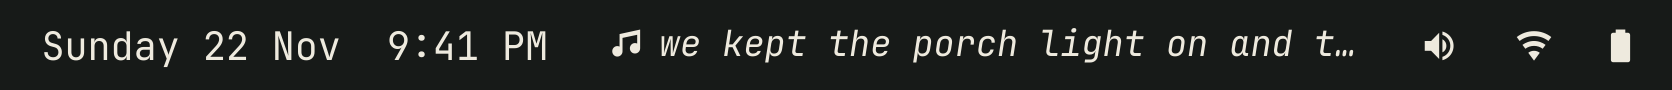
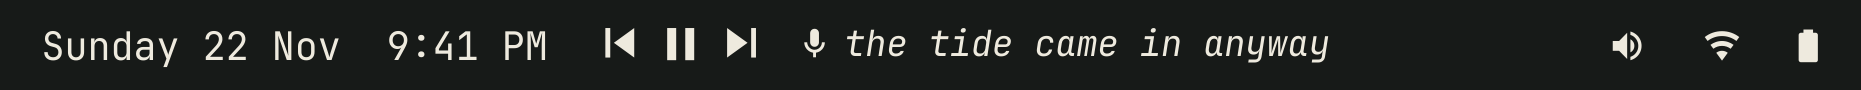
Harness: paging captures, three-line popup capture
New modes bar-lyric-page1 and bar-lyric-page2 render a long mock line on
its first and second page; bar-lyric uses a short line, panel shows the
three lyric lines. All lyrics are made up.

Claude-Session: https://claude.ai/code/session_01WDfsiKyRhJNr2NX5P2Fza4

Changed region(s): [[0.0, 0.3111, 0.8086, 0.6889], [0.8397, 0.3333, 0.933, 0.6667], [0.9641, 0.3333, 0.9952, 0.6889]]

diff --git a/dev/Harness.qml b/dev/Harness.qml
@@ -11,11 +11,13 @@ import "canto" as W
 // dev/mock/state.json); Canto does not need to be running.
 //
 // MODE (env):
-//   preview     floating window with the pill and the popup, to play with
-//   bar         the pill showing Title · Artist          -> $OUT (png)
-//   bar-lyric   the pill showing the synced lyric line   -> $OUT (png)
-//   panel       the popup with cover, lyric and controls -> $OUT (png)
-//   panel-hint  the popup with Visual Bridge off         -> $OUT (png)
+//   preview          floating window with the pills and the popup, to play with
+//   bar              controls + Title · Artist (title mode)        -> $OUT (png)
+//   bar-lyric        lyric mode, a line that fits                  -> $OUT (png)
+//   bar-lyric-page1  lyric mode, a long line: its first page       -> $OUT (png)
+//   bar-lyric-page2  lyric mode, the same line: its second page    -> $OUT (png)
+//   panel            the popup: cover, three lyric lines, controls -> $OUT (png)
+//   panel-hint       the popup with Visual Bridge off              -> $OUT (png)
 ShellRoot {
   id: shell
 
@@ -79,11 +81,15 @@ ShellRoot {
   component BarStrip: Rectangle {
     id: strip
     property bool bridgeOn: true
+    property string mode: "title"
+    property string frameFile: "state.json"
+    // A page other than the first, for the paging captures.
+    property int page: 0
     width: barRow.implicitWidth + Style.space(28)
     height: Style.bar.sizeHorizontal
     color: Commons.Color.bar.background
 
-    MockCanto { id: mock; bridgeOn: strip.bridgeOn }
+    MockCanto { id: mock; bridgeOn: strip.bridgeOn; frameFile: strip.frameFile }
 
     Row {
       id: barRow
@@ -99,12 +105,15 @@ ShellRoot {
       }
 
       W.Pill {
+        id: pill
         anchors.verticalCenter: parent.verticalCenter
         width: implicitWidth
         height: implicitHeight
         bar: mock.bar
         source: mock
-        showLyric: true
+        tr: mock.tr
+        mode: strip.mode
+        showControls: true
         maxWidth: Style.space(240)
       }
 
@@ -116,11 +125,22 @@ ShellRoot {
         font.pixelSize: Style.bar.iconFont
       }
     }
+
+    Timer {
+      running: strip.page > 0
+      interval: 700
+      onTriggered: pill.pageIndex = Math.min(strip.page, pill.pages.length - 1)
+    }
   }
 
   Component {
     id: barScene
-    BarStrip { bridgeOn: shell.mode === "bar-lyric" }
+    BarStrip {
+      bridgeOn: shell.mode !== "bar"
+      mode: shell.mode === "bar" ? "title" : "lyric"
+      frameFile: shell.mode === "bar-lyric" ? "state-short.json" : "state.json"
+      page: shell.mode === "bar-lyric-page2" ? 1 : 0
+    }
   }
 
   // The popup: NowPlayingView inside a frame shaped like the shell's popups.
@@ -160,8 +180,9 @@ ShellRoot {
     Column {
       padding: Style.space(16)
       spacing: Style.space(16)
-      BarStrip { bridgeOn: true }
-      BarStrip { bridgeOn: false }
+      BarStrip { bridgeOn: false; mode: "title" }
+      BarStrip { mode: "lyric"; frameFile: "state-short.json" }
+      BarStrip { mode: "lyric" }
       PopupFrame { bridgeOn: true }
     }
   }
